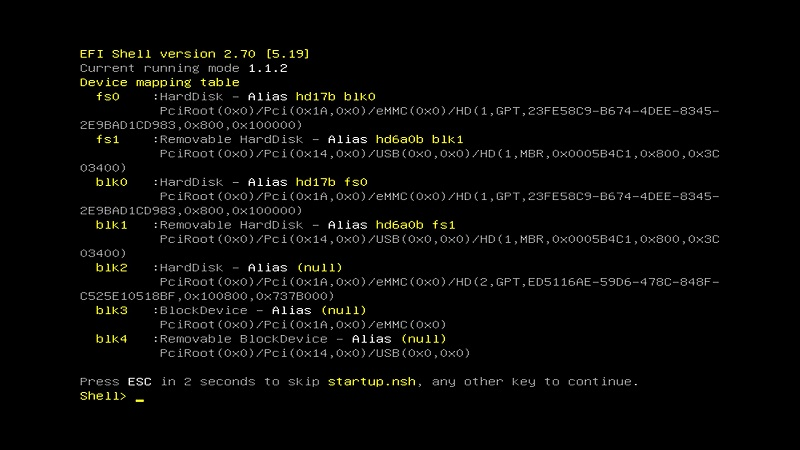
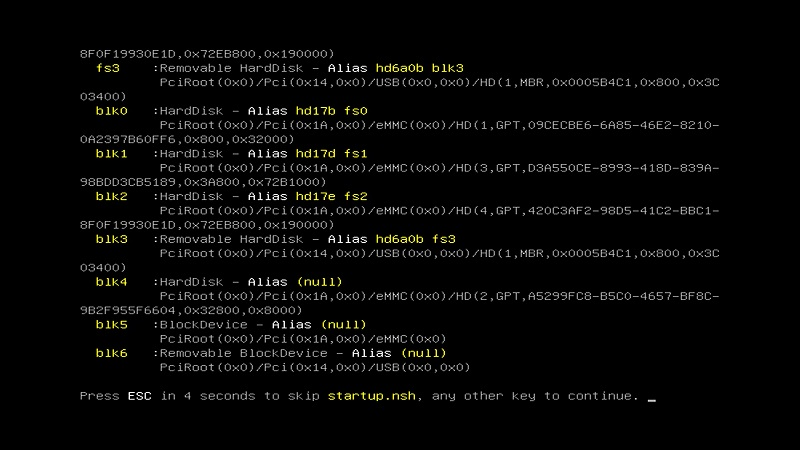
update process of BIOS refresh

Changed region(s): [[0.0938, 0.0933, 0.9062, 0.9022], [0.6562, 0.1556, 0.9062, 0.1867]]

diff --git a/content/3rd_delta_edition/biosBackup.md b/content/3rd_delta_edition/biosBackup.md
@@ -120,14 +120,16 @@ Before this operation, it is recommended to unplug the SSD, TF card, and other s
 * **Path: BIOS Setup -> Save & Exit-> Boot Override**. In the boot override menu, choose the UEFI device.
 <center>![](/assets/images/BootOverrideDeivce_3Delta.jpg)</center>
 
-* Then press '**Enter**' key, to enter into the EFI shell.  Then **do not press any key** to let the countdown end. 
+* Then press '**Enter**' key, to enter into the EFI shell,  then press '**ESC**' key to skip startup.nsh.
 
   <center>![](/assets/images/EFIShellMenu_3Delta.jpg)</center>
 
-* After the countdown, BIOS firmware refresh will be automatically started.
+* Input '**fs 0:**', then input '**ls**', to check whether the BIOS firmware is in the list. The BIOS firmware is a BIN file. If not, please continue to input '**fs1:**','**fs2:**', etc. to check, until finding the BIOS firmware in the list.
 
-<center>![](/assets/images/BIOSRefreshStarted_3Delta.jpg)</center>
+<center>![](/assets/images/EFIShellCheck_3Delta.jpg)</center>
 
-*  After about 2 minutes, the green font message "FPT Operation Successful" will be on the screen. It indicates that BIOS firmware refresh is already finished. Then short press the power button to turn off the LattePanda. Unplug the USB drive. Then short press the power button to turn on the LattePanda. The update of BIOS has finished now.
+* Then input '**BIOS.nsh**', and press '**Enter**' key. The update process will start. It will take about 2 minutes.
 
-<center>![](/assets/images/BIOSRefreshFinish_3Delta.jpg)</center>
+<center>![](/assets/images/EFIShellFinish_3Delta.jpg)</center>
+
+* When it has been done, the green font message "FPT Operation Successful" will be on the screen. Then short press the power button to turn off the LattePanda. Unplug the USB drive. Then short press the power button to turn on the LattePanda. The update of BIOS has finished now.
